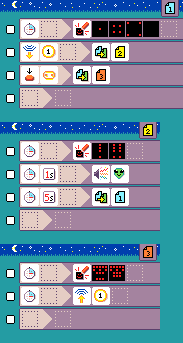
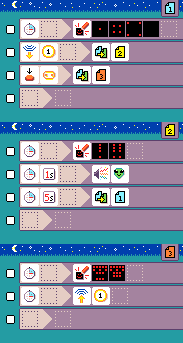
harmonize page widths

Changed region(s): [[0.7377, 0.3499, 1.0, 0.6706], [0.7377, 0.6997, 1.0, 0.9621]]

diff --git a/docs.ts b/docs.ts
@@ -97,17 +97,24 @@ namespace docs {
         app.pushScene(editor)
         editor.cursor.visible = false
 
+        const pages = editor.nonEmptyPages()
+
         let imgs: Image[] = []
         let w = 0
         let h = 0
         const margin = 4
 
+        // compute largest rule width
+        let pw = screen.width
+        for (const p of pages) {
+            editor.switchToPage(p)
+            pw = Math.max(pw, editor.ruleWidth())
+        }
+
+        // render all pages
         editor.nonEmptyPages().forEach(p => {
             editor.switchToPage(p)
-            microcode.Screen.setImageSize(
-                Math.max(screen.width, editor.ruleWidth()),
-                editor.pageHeight()
-            )
+            microcode.Screen.setImageSize(pw, editor.pageHeight())
             const pageEditor = new microcode.Editor(app)
             app.pushScene(pageEditor)
             pageEditor.cursor.visible = false
